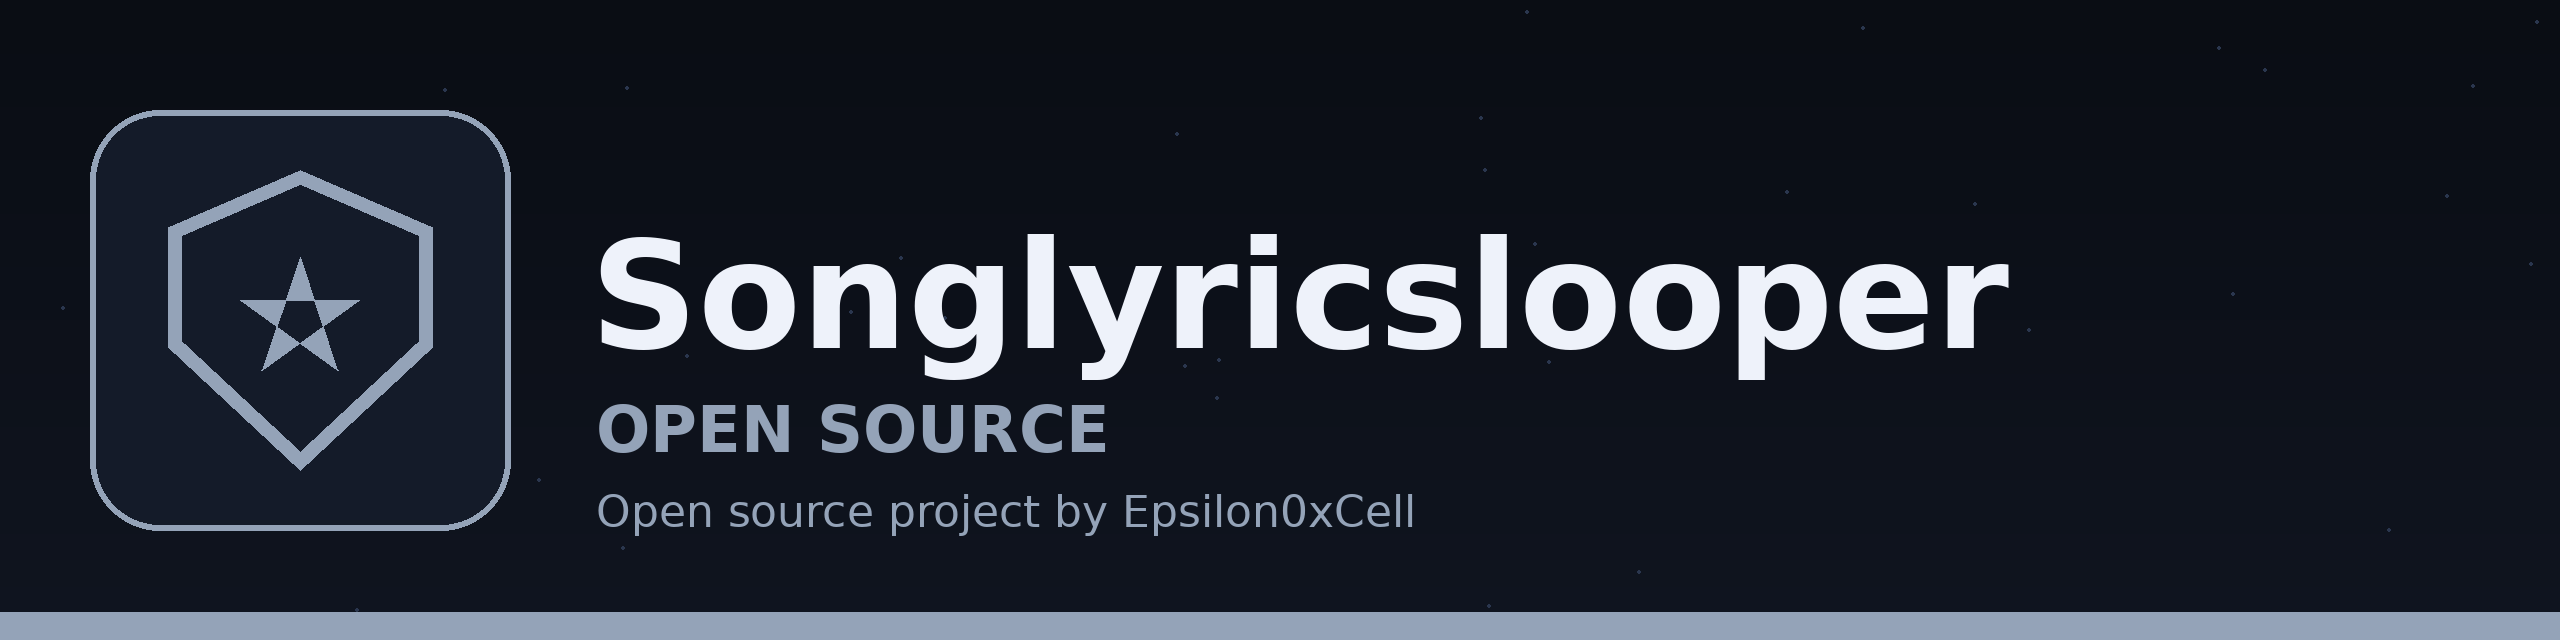
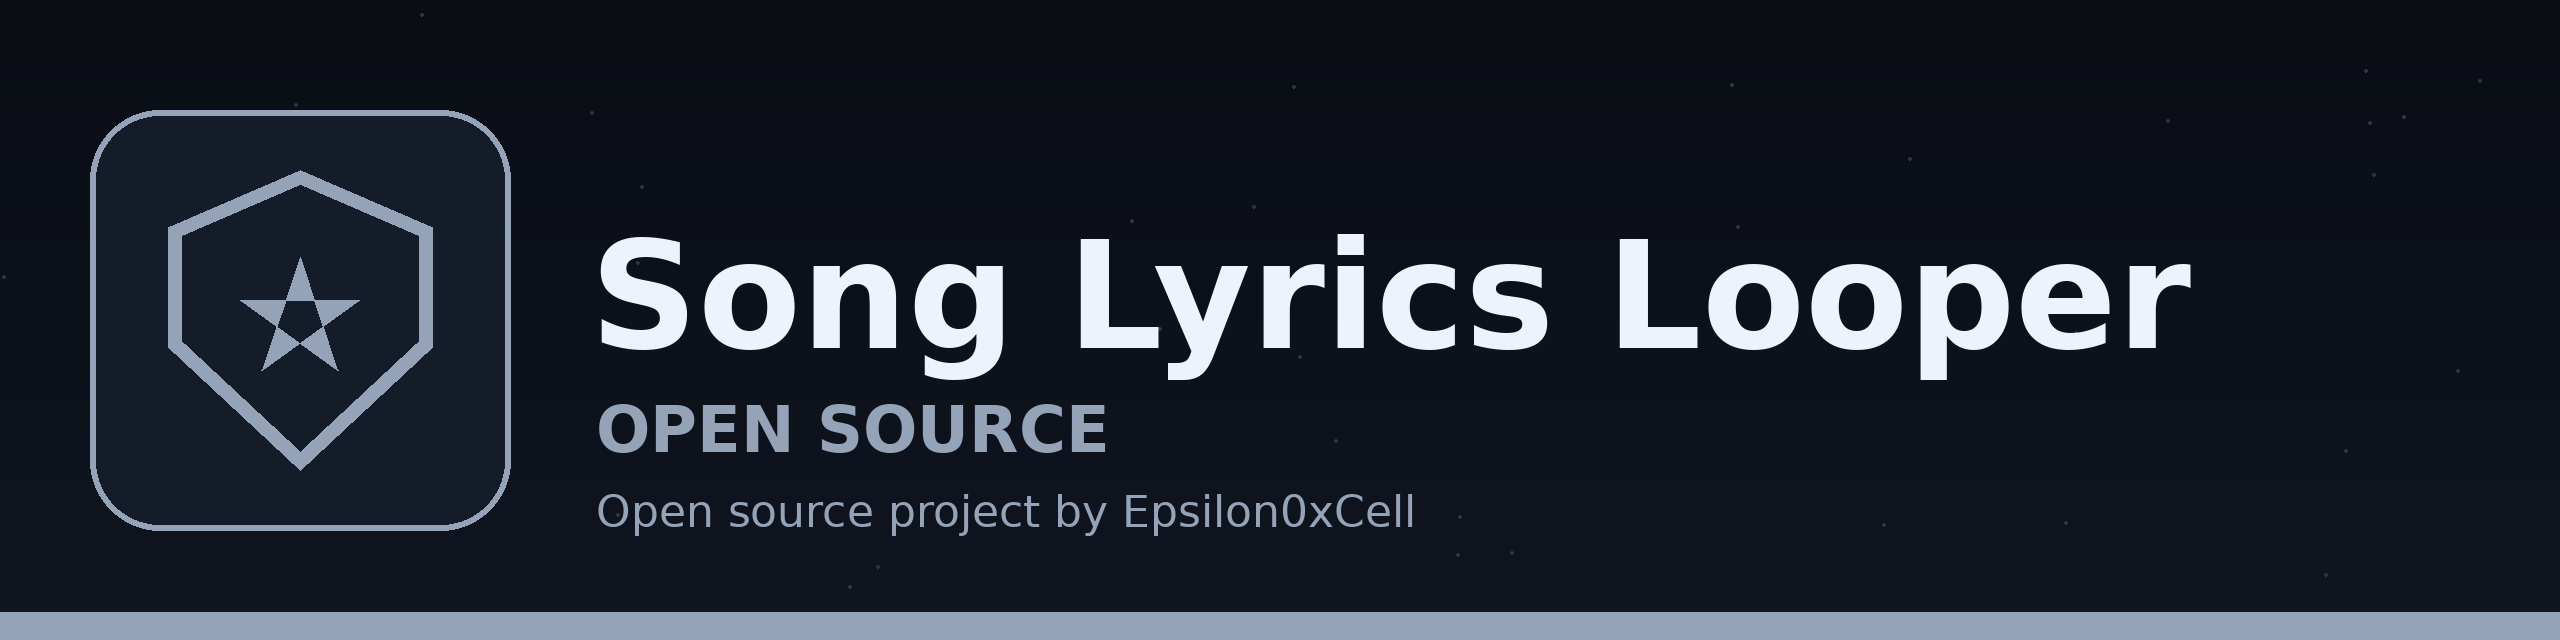
Update name to Song-Lyrics-Looper: README title and branding

Changed region(s): [[0.375, 0.3438, 0.875, 0.5938]]

diff --git a/README.md b/README.md
@@ -1,6 +1,6 @@
 ![songlyricslooper banner](banner.png)
 
-# songlyricslooper
+# Song-Lyrics-Looper
 
 A small Python script that prints the counting lyrics of the three times
 table song: a counting-up chorus, the multiplication verses from 3 times
